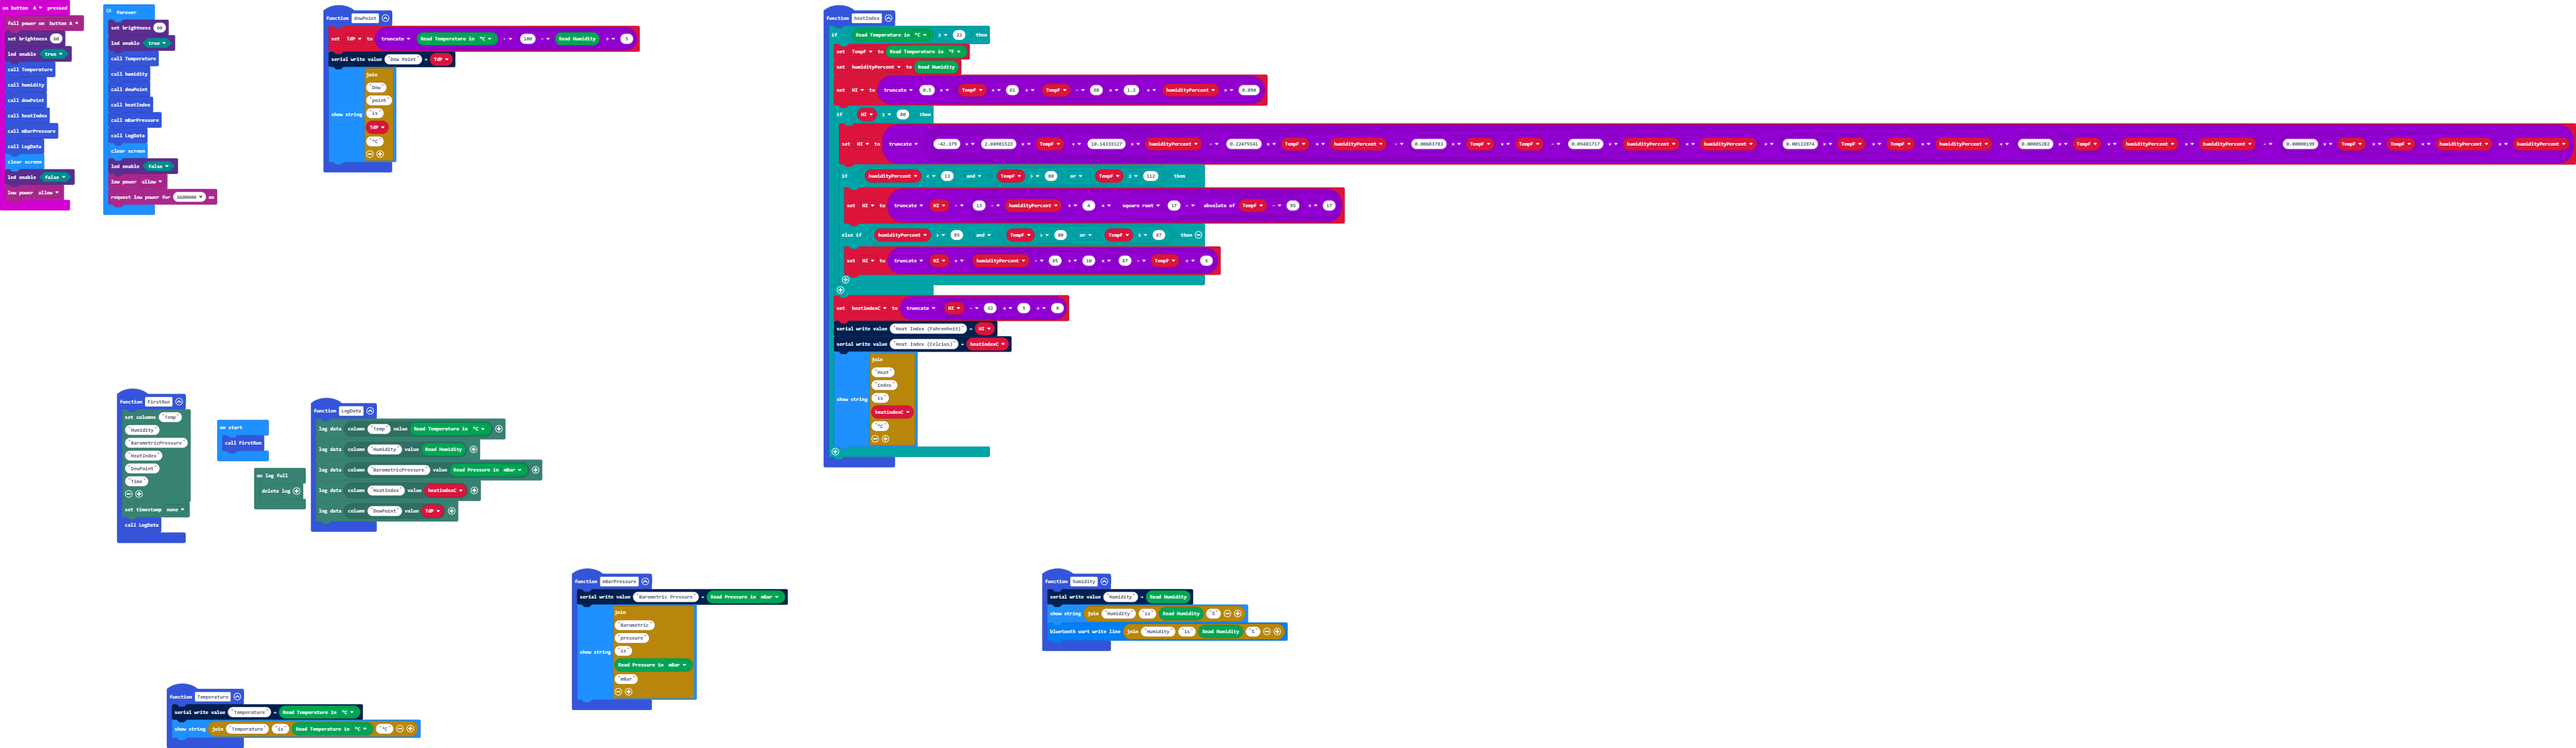
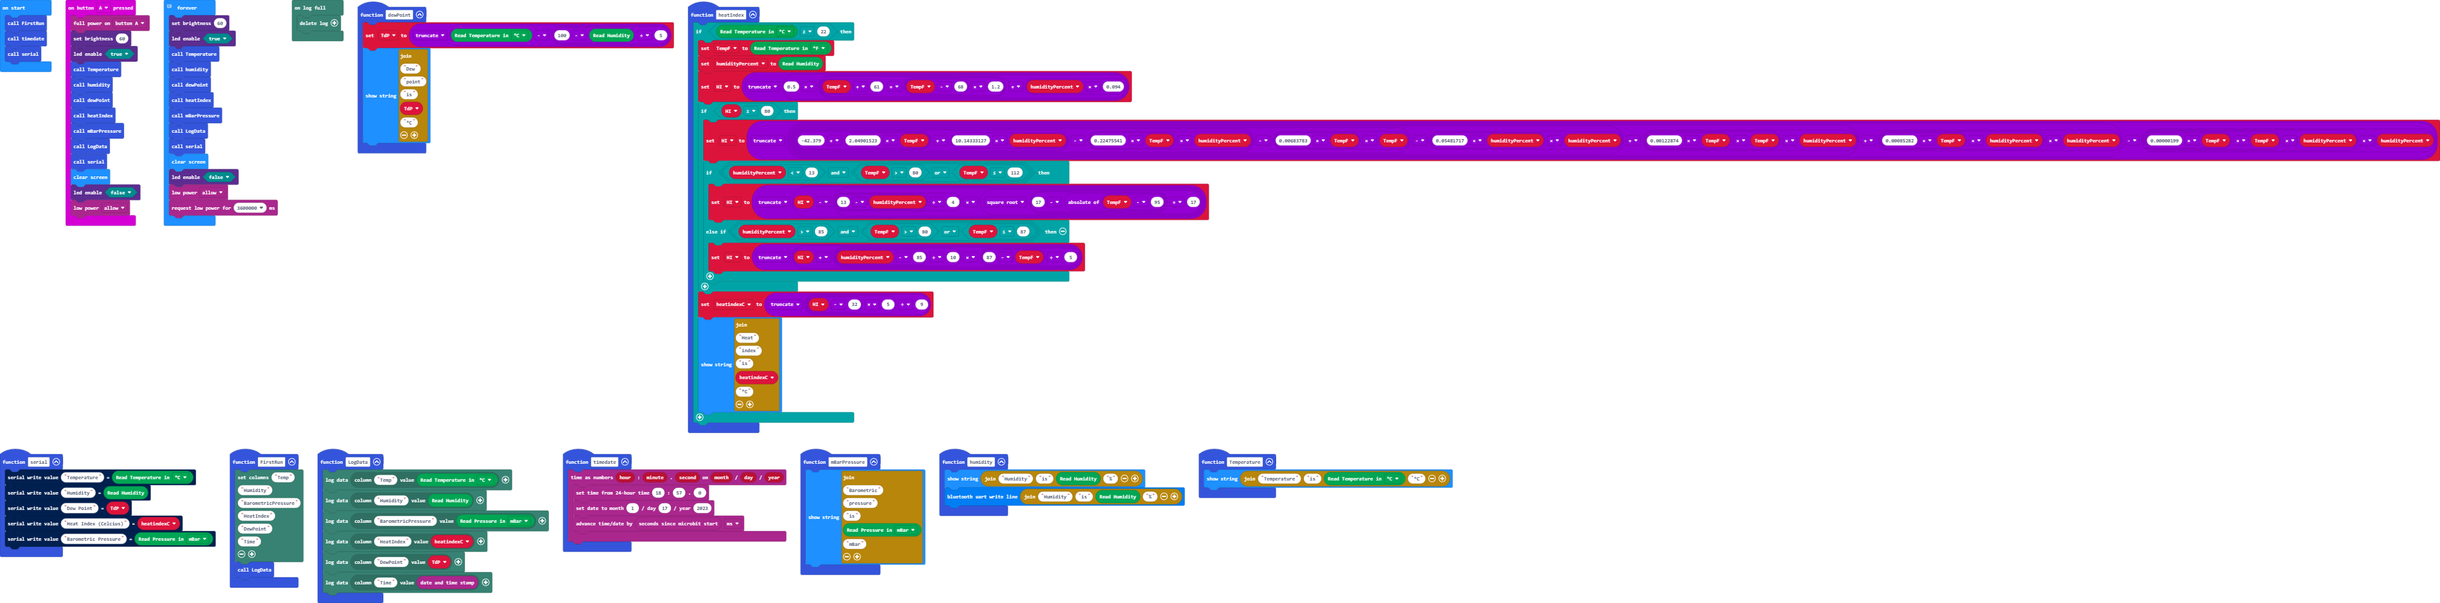
Update pxt.json, main.blocks, main.ts

Changed region(s): [[0.0, 0.0, 1.0, 0.7404], [0.0, 0.7404, 0.6209, 1.0], [0.031, 0.5245, 0.2173, 0.7404]]

diff --git a/main.ts b/main.ts
@@ -4,6 +4,7 @@ function LogData () {
     datalogger.log(datalogger.createCV("BarometricPressure", Kitronik_klimate.pressure(Kitronik_klimate.PressureUnitList.mBar)))
     datalogger.log(datalogger.createCV("HeatIndex", heatindexC))
     datalogger.log(datalogger.createCV("DewPoint", TdP))
+    datalogger.log(datalogger.createCV("Time", timeanddate.dateTime()))
 }
 datalogger.onLogFull(function () {
     datalogger.deleteLog()
@@ -17,7 +18,6 @@ function FirstRun () {
     "DewPoint",
     "Time"
     )
-    datalogger.includeTimestamp(FlashLogTimeStampFormat.None)
     LogData()
 }
 input.onButtonPressed(Button.A, function () {
@@ -30,12 +30,19 @@ input.onButtonPressed(Button.A, function () {
     heatIndex()
     mBarPressure()
     LogData()
+    serial2()
     basic.clearScreen()
     led.enable(false)
     power.lowPowerEnable(LowPowerEnable.Allow)
 })
-function humidity () {
+function serial2 () {
+    serial.writeValue("Temperature", Kitronik_klimate.temperature(Kitronik_klimate.TemperatureUnitList.C))
     serial.writeValue("Humidity", Kitronik_klimate.humidity())
+    serial.writeValue("Dew Point", TdP)
+    serial.writeValue("Heat Index (Celcius)", heatindexC)
+    serial.writeValue("Barometric Pressure", Kitronik_klimate.pressure(Kitronik_klimate.PressureUnitList.mBar))
+}
+function humidity () {
     basic.showString("Humidity" + "is" + Kitronik_klimate.humidity() + "%")
     bluetooth.uartWriteLine("Humidity" + "is" + Kitronik_klimate.humidity() + "%")
 }
@@ -53,23 +60,25 @@ function heatIndex () {
             }
         }
         heatindexC = Math.trunc((HI - 32) * 5 / 9)
-        serial.writeValue("Heat Index (Fahrenheit)", HI)
-        serial.writeValue("Heat Index (Celcius)", heatindexC)
         basic.showString("Heat" + "index" + "is" + heatindexC + "°C")
     }
 }
 function dewPoint () {
     TdP = Math.trunc(Kitronik_klimate.temperature(Kitronik_klimate.TemperatureUnitList.C) - (100 - Kitronik_klimate.humidity()) / 5)
-    serial.writeValue("Dew Point", TdP)
     basic.showString("Dew" + "point" + "is" + TdP + "°C")
 }
 function Temperature () {
-    serial.writeValue("Temperature", Kitronik_klimate.temperature(Kitronik_klimate.TemperatureUnitList.C))
     basic.showString("Temperature" + "is" + Kitronik_klimate.temperature(Kitronik_klimate.TemperatureUnitList.C) + "°C")
 }
 function mBarPressure () {
-    serial.writeValue("Barometric Pressure", Kitronik_klimate.pressure(Kitronik_klimate.PressureUnitList.mBar))
     basic.showString("Barometric" + "pressure" + "is" + Kitronik_klimate.pressure(Kitronik_klimate.PressureUnitList.mBar) + "mBar")
+}
+function timedate () {
+    timeanddate.numericTime(function (hour, minute, second, month, day, year) {
+        timeanddate.set24HourTime(18, 57, 0)
+        timeanddate.setDate(1, 17, 2023)
+        timeanddate.advanceBy(timeanddate.secondsSinceReset(), timeanddate.TimeUnit.Milliseconds)
+    })
 }
 let HI = 0
 let humidityPercent = 0
@@ -77,6 +86,8 @@ let TempF = 0
 let TdP = 0
 let heatindexC = 0
 FirstRun()
+timedate()
+serial2()
 // Main script: sets brightness, turns on LEDs and Bluetooth service. The script then calls the encoded functions for temperature, pressure, humidity, dew point, and heat index. The LEDs turn off after reporting, and waits for 10 minutes before making another report.
 basic.forever(function () {
     led.setBrightness(60)
@@ -87,6 +98,7 @@ basic.forever(function () {
     heatIndex()
     mBarPressure()
     LogData()
+    serial2()
     basic.clearScreen()
     led.enable(false)
     power.lowPowerEnable(LowPowerEnable.Allow)
